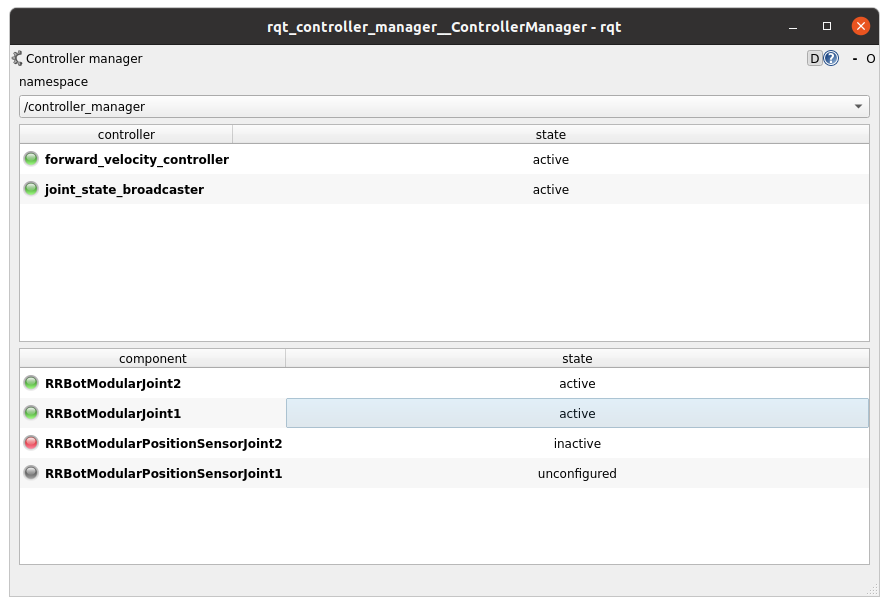
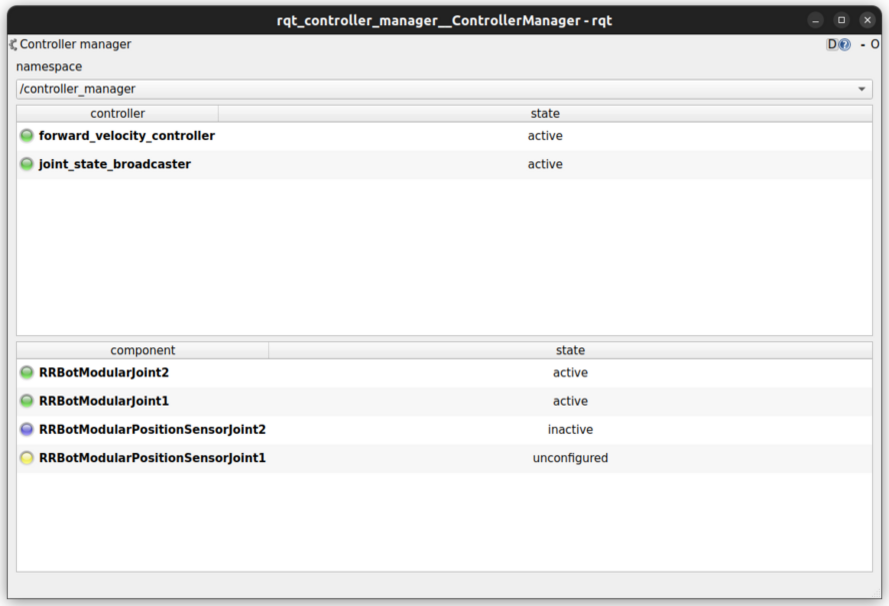
Update `rqt_controller_manager` controller state color scheme to match list_controllers color scheme (#2143)

Changed region(s): [[0.0, 0.0, 1.0, 1.0]]

diff --git a/rqt_controller_manager/rqt_controller_manager/controller_manager.py b/rqt_controller_manager/rqt_controller_manager/controller_manager.py
@@ -93,9 +93,9 @@ class ControllerManager(Plugin):
         path = get_package_share_directory("rqt_controller_manager")
         self._icons = {
             "active": QIcon(f"{path}/resource/led_green.png"),
-            "finalized": QIcon(f"{path}/resource/led_off.png"),
-            "inactive": QIcon(f"{path}/resource/led_red.png"),
-            "unconfigured": QIcon(f"{path}/resource/led_off.png"),
+            "inactive": QIcon(f"{path}/resource/led_cyan.png"),
+            "unconfigured": QIcon(f"{path}/resource/led_yellow.png"),
+            "unloaded": QIcon(f"{path}/resource/led_off.png"),
         }
 
         # Controllers display
@@ -229,10 +229,10 @@ class ControllerManager(Plugin):
         menu = QMenu(self._widget.ctrl_table_view)
         if ctrl.state == "active":
             action_deactivate = menu.addAction(self._icons["inactive"], "Deactivate")
-            action_kill = menu.addAction(self._icons["finalized"], "Deactivate and Unload")
+            action_kill = menu.addAction(self._icons["unloaded"], "Deactivate and Unload")
         elif ctrl.state == "inactive":
             action_activate = menu.addAction(self._icons["active"], "Activate")
-            action_unload = menu.addAction(self._icons["unconfigured"], "Unload")
+            action_cleanup = menu.addAction(self._icons["unconfigured"], "Cleanup")
         elif ctrl.state == "unconfigured":
             action_configure = menu.addAction(self._icons["inactive"], "Configure")
             action_spawn = menu.addAction(self._icons["active"], "Configure and Activate")
@@ -251,11 +251,13 @@ class ControllerManager(Plugin):
             elif action is action_kill:
                 self._deactivate_controller(ctrl.name)
                 unload_controller(self._node, self._cm_name, ctrl.name)
-        elif ctrl.state in ("finalized", "inactive"):
+        elif ctrl.state == "inactive":
             if action is action_activate:
                 self._activate_controller(ctrl.name)
-            elif action is action_unload:
+            elif action is action_cleanup:
+                # TODO: use cleanup service once available
                 unload_controller(self._node, self._cm_name, ctrl.name)
+                load_controller(self._node, self._cm_name, ctrl.name)
         elif ctrl.state == "unconfigured":
             if action is action_configure:
                 configure_controller(self._node, self._cm_name, ctrl.name)
@@ -358,7 +360,7 @@ class ControllerManager(Plugin):
         menu = QMenu(self._widget.hw_table_view)
         if hw_component.state.label == "active":
             action_deactivate = menu.addAction(self._icons["inactive"], "Deactivate")
-            action_cleanup = menu.addAction(self._icons["finalized"], "Deactivate and Cleanup")
+            action_cleanup = menu.addAction(self._icons["unconfigured"], "Deactivate and Cleanup")
         elif hw_component.state.label == "inactive":
             action_activate = menu.addAction(self._icons["active"], "Activate")
             action_cleanup = menu.addAction(self._icons["unconfigured"], "Cleanup")
@@ -514,10 +516,11 @@ class ControllerTable(QAbstractTableModel):
             if index.column() == 0:
                 return ctrl.name
             elif index.column() == 1:
-                return ctrl.state or "not loaded"
+                return ctrl.state or "unloaded"
 
         if role == Qt.DecorationRole and index.column() == 0:
-            return self._icons.get(ctrl.state)
+            state_key = ctrl.state if ctrl.state else "unloaded"
+            return self._icons.get(state_key)
 
         if role == Qt.FontRole and index.column() == 0:
             bf = QFont()
@@ -565,7 +568,7 @@ class HwComponentTable(QAbstractTableModel):
             if index.column() == 0:
                 return hw_component.name
             elif index.column() == 1:
-                return hw_component.state.label or "not loaded"
+                return hw_component.state.label or "unloaded"
 
         if role == Qt.DecorationRole and index.column() == 0:
             return self._icons.get(hw_component.state.label)
